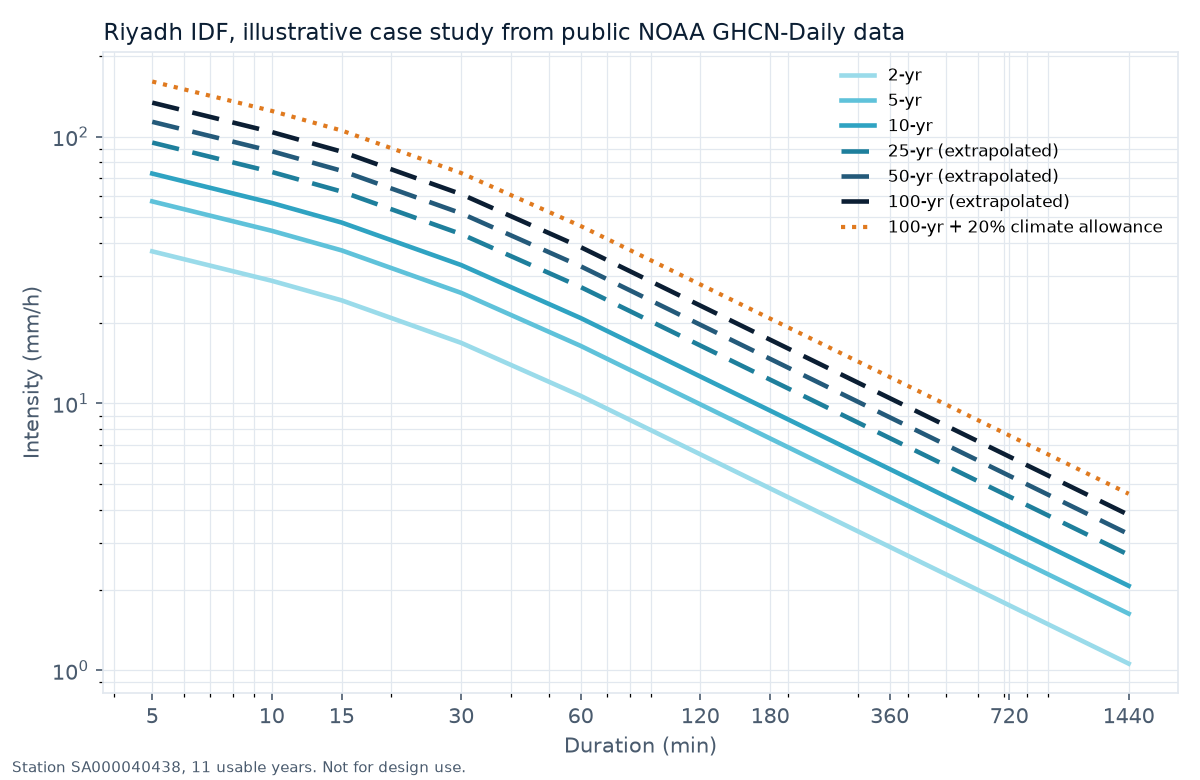
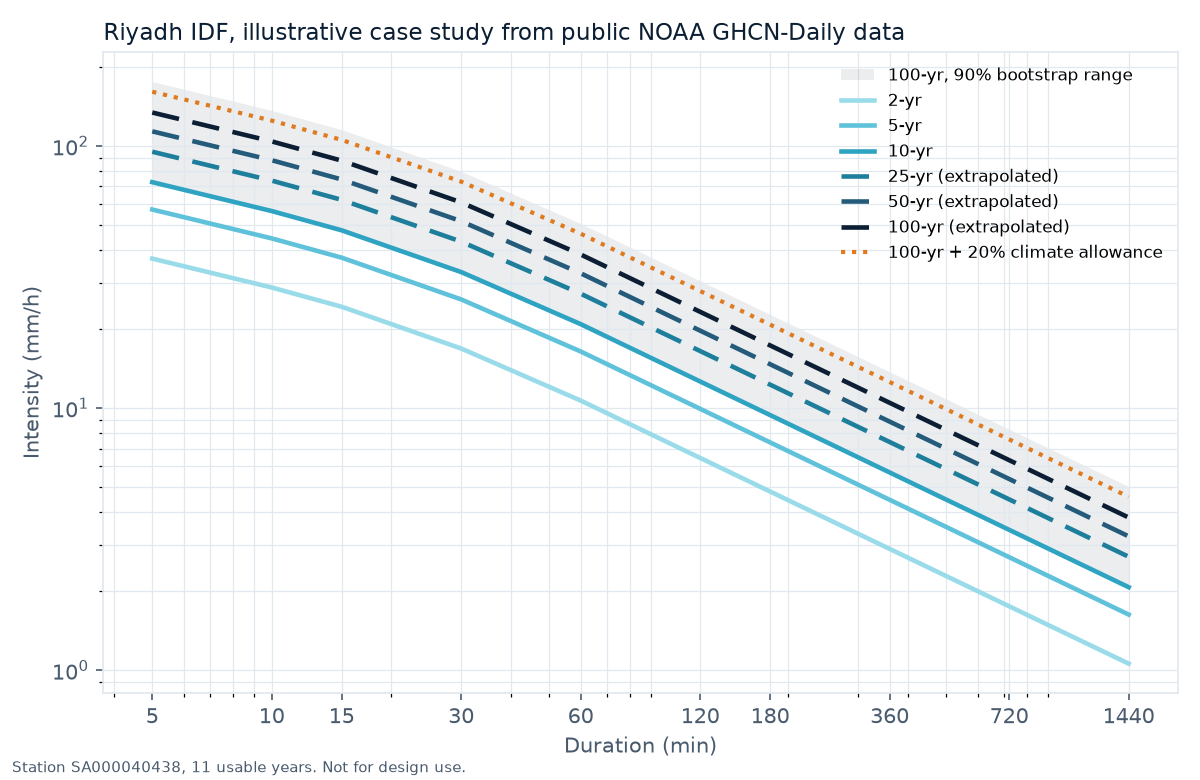
IDF case study: uncertainty note and 90% bootstrap band
Adds an EN + AR note that the curves are a method demonstration from
11 years of public data, and shades the 90% bootstrap range of the
100-year curve on the chart.

diff --git a/src/i18n.js b/src/i18n.js
@@ -75,6 +75,7 @@ export const t = {
       aria: 'Illustrative IDF curves for Riyadh from public NOAA data: 2, 10, 25 and 100-year return periods and a 100-year curve with a 20% climate allowance',
       xLabel: 'Duration (min)', yLabel: 'Intensity (mm/h)',
       rp: ['2-yr', '10-yr', '25-yr', '100-yr'], extrapolated: '(beyond record)', uplift: '100-yr + 20% climate allowance',
+      band: '100-yr, 90% bootstrap range',
       caption: 'Riyadh IDF curves, illustrative. Dashed lines go beyond the 11-year record.',
     },
     caseStudy: {
@@ -88,8 +89,14 @@ export const t = {
       figures: [
         ['11 years', 'usable record after quality checks'],
         ['92 mm', '100-year, 24-hour depth'],
-        ['38.5 mm/h', '100-year, 1-hour intensity'],
+        ['38.5 mm/h', '100-year, 1-hour intensity (90% range 21–51)'],
         ['+20%', 'illustrative climate allowance'],
+      ],
+      uncertaintyTitle: 'A method demonstration, not a design value',
+      uncertainty: [
+        'These curves come from a short public record: 11 usable years at NOAA GHCN-Daily station SA000040438. Return periods beyond about twice the record length, here 25 years and up, carry wide uncertainty.',
+        'Resampling the 11 annual maxima 2,000 times (bootstrap) and refitting Log-Pearson III gives a 90% range of 44–107 mm for the 100-year day, and 21–51 mm/h for the 100-year, 1-hour intensity. That is the shaded band on the chart. A design study narrows it with longer and denser records.',
+        'Next: a side-by-side check against the longer GPM-IMERG satellite record (2000 to today) for the Riyadh grid cell.',
       ],
       checksTitle: 'The 5 checks, one by one',
       did: 'What I did', found: 'What it showed',
@@ -191,6 +198,7 @@ export const t = {
       aria: 'منحنيات IDF توضيحية للرياض من بيانات NOAA العامة: فترات تكرار 2 و10 و25 و100 سنة، ومنحنى 100 سنة مع هامش 20% للتغير المناخي',
       xLabel: 'المدة (دقيقة)', yLabel: 'الشدة (مم/ساعة)',
       rp: ['2 سنة', '10 سنوات', '25 سنة', '100 سنة'], extrapolated: '(خارج مدة السجل)', uplift: '100 سنة + 20% للتغير المناخي',
+      band: '100 سنة، نطاق 90% (Bootstrap)',
       caption: 'منحنيات IDF للرياض، توضيحية. الخطوط المتقطعة تتجاوز مدة السجل (11 سنة).',
     },
     caseStudy: {
@@ -204,8 +212,14 @@ export const t = {
       figures: [
         ['11 سنة', 'سجل صالح بعد تدقيق البيانات'],
         ['92 مم', 'عمق 24 ساعة، فترة تكرار 100 سنة'],
-        ['38.5 مم/ساعة', 'شدة ساعة واحدة، فترة تكرار 100 سنة'],
+        ['38.5 مم/ساعة', 'شدة ساعة واحدة، فترة تكرار 100 سنة (نطاق 90%: 21–51)'],
         ['+20%', 'هامش توضيحي للتغير المناخي'],
+      ],
+      uncertaintyTitle: 'عرض للمنهجية، وليس قيمة تصميمية',
+      uncertainty: [
+        'هذه المنحنيات مبنية على سجل عام قصير: 11 سنة صالحة في محطة NOAA GHCN-Daily رقم SA000040438. فترات التكرار التي تتجاوز ضعف مدة السجل تقريبًا، أي 25 سنة فأكثر هنا، تحمل عدم يقين كبيرًا.',
+        'إعادة سحب العينات من القيم القصوى السنوية الإحدى عشرة 2,000 مرة (Bootstrap) وإعادة ملاءمة Log-Pearson III تعطي نطاق ثقة 90% قدره 44–107 مم ليوم الـ100 سنة، و21–51 مم/ساعة لشدة الساعة لفترة 100 سنة. هذا هو النطاق المظلل في الرسم. الدراسة التصميمية تضيّقه بسجلات أطول وأكثف.',
+        'الخطوة التالية: مقارنة جنبًا إلى جنب مع سجل الأقمار الصناعية الأطول GPM-IMERG (من 2000 حتى اليوم) لخلية الرياض.',
       ],
       checksTitle: 'الفحوصات الخمسة، واحدًا تلو الآخر',
       did: 'ماذا فعلت', found: 'ماذا أظهر',

diff --git a/src/styles/global.css b/src/styles/global.css
@@ -120,6 +120,10 @@ html[lang='ar'] .case-hero h1 { line-height: 1.4; }
 .idf { margin: 0; display: flex; flex-direction: column; gap: 12px; }
 .idf figcaption, .fit figcaption { font-size: 14px; color: var(--muted); }
 .legend.light { color: var(--muted); }
+.legend .band-key { height: 12px; background: rgba(11, 30, 51, 0.12); }
+.uncertainty { border-inline-start: 4px solid var(--teal); background: #fff; border-radius: 12px; padding: 18px 22px; display: flex; flex-direction: column; gap: 8px; }
+.uncertainty h3 { font-size: 18px; font-weight: 700; }
+.uncertainty p { color: var(--muted); }
 .idf .narrow-only { display: none; }
 @media (max-width: 600px) {
   .idf .wide-only { display: none; }
